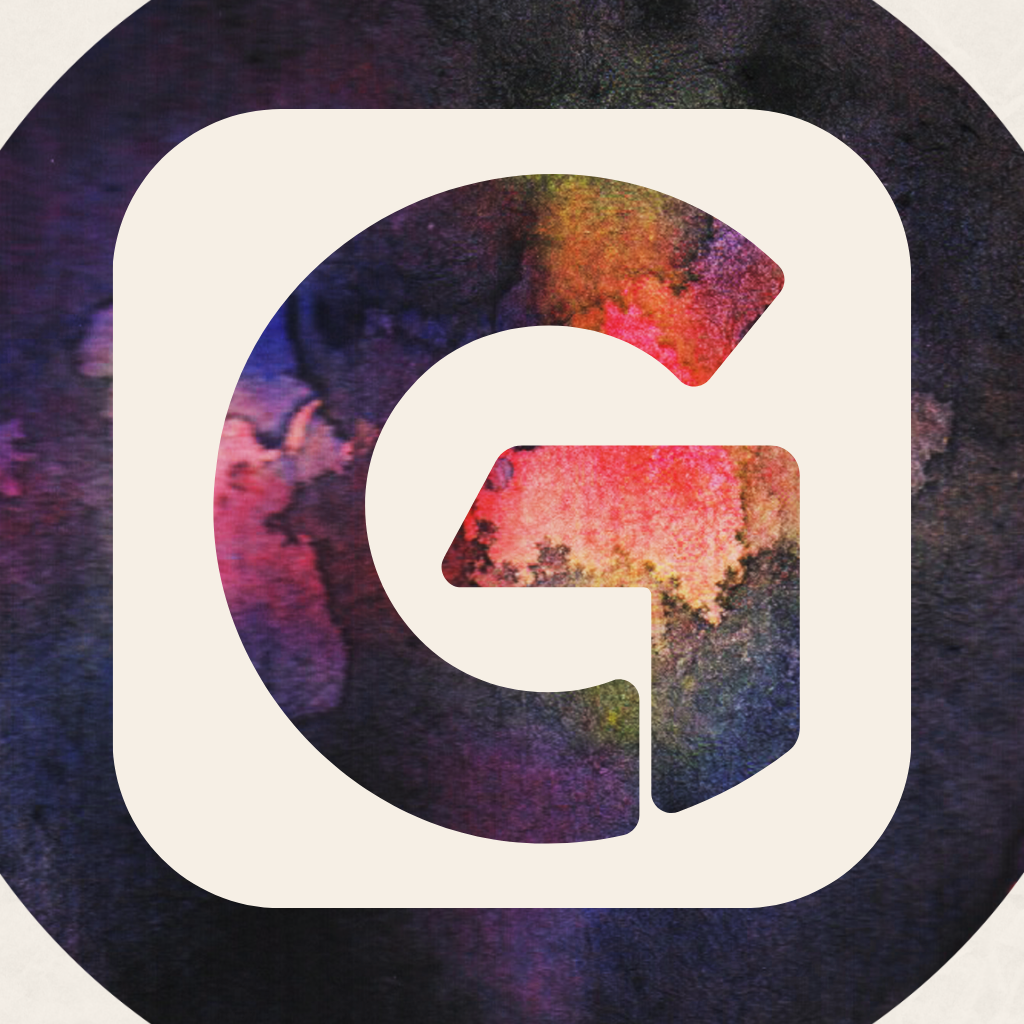
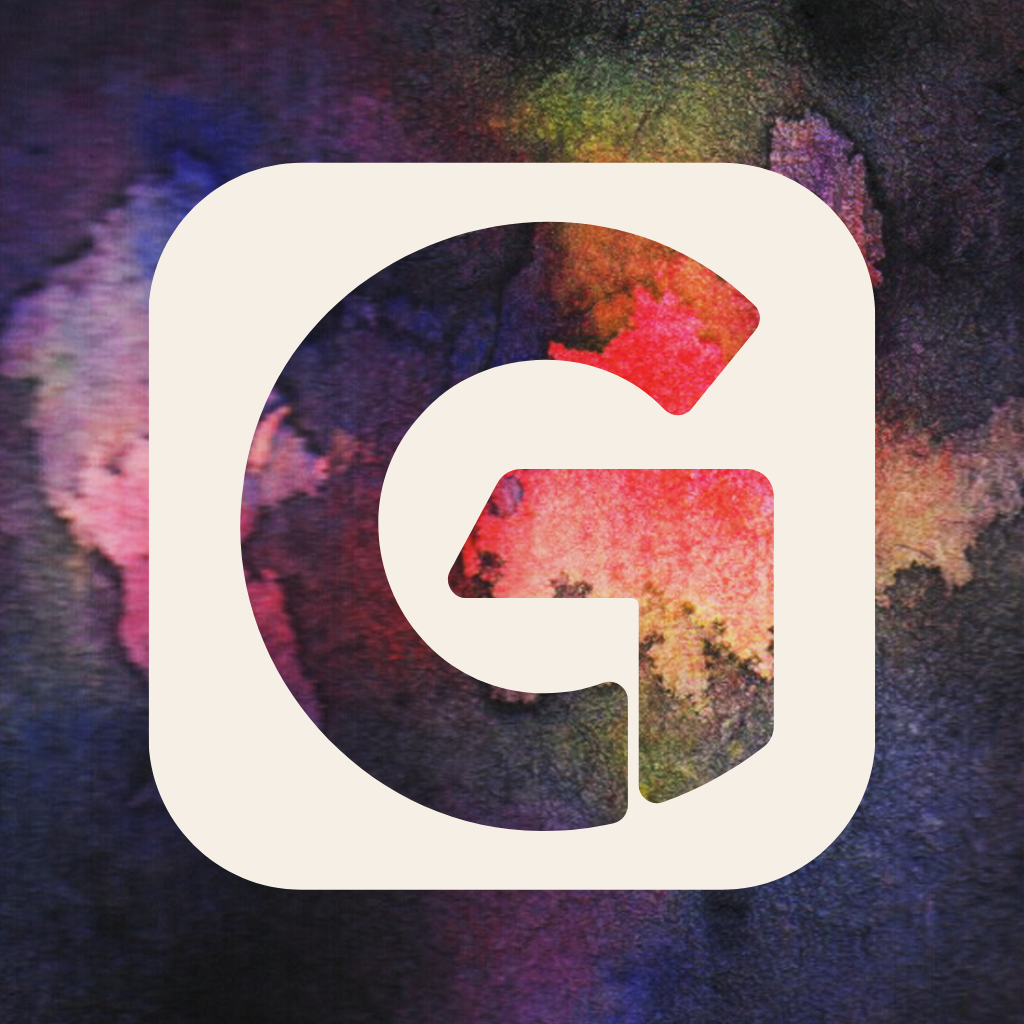
Insercion de Insignia_Badge y actualizacion de icono_G

diff --git a/style.css b/style.css
@@ -213,6 +213,13 @@ ul{
     list-style-type: none;
 }
 
+.contenedor_visual_insignias{
+    margin: 2% 10%;
+    display: grid;
+    grid-template-columns: 1fr 1fr;
+    justify-content: center;
+}
+
 /* estilos para el la seccion habilidades*/
 
 .contenedor_seccion_habilidades{
@@ -344,6 +351,12 @@ footer {
     .contenedor_seccion_habilidades,
     .contenedor_seccion_proyectos{
         padding-top: 150px;
+    }
+
+    .contenedor_visual_insignias{
+        display: flex;
+        flex-direction: column;
+        align-items: center;
     }
 
 }

diff --git a/index.html b/index.html
@@ -126,7 +126,10 @@
       </td>
     </tr>
   </table>
-  <img src="./assets/Insignia_decodificador de texto.png"/ alt="Insignia_decodificador">
+  <div class="contenedor_visual_insignias">
+    <img src="./assets/Insignia_decodificador de texto.png" alt="Insignia_decodificador">
+    <img src="./assets/Insignia_Badge-Portfólio.png" alt="Insignia_portafolio">
+  </div>
 </section>
 
 <!-- Sección de Habilidades -->
